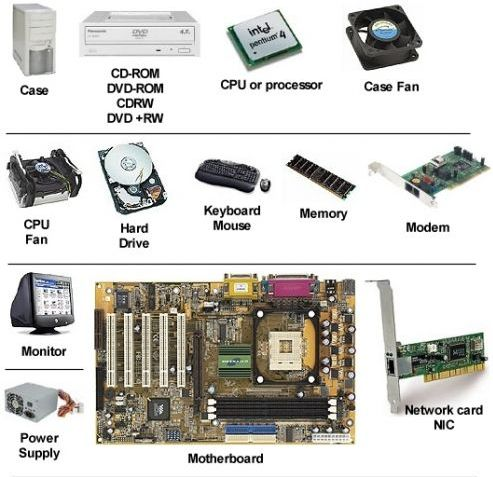
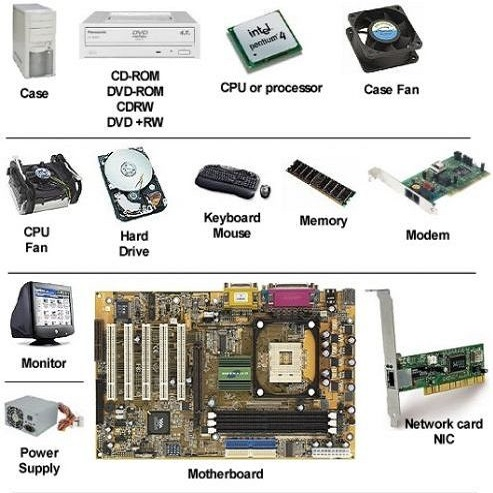
Ajustes no tamanho das imagens na lista de categoria

diff --git a/src/app/components/categorias/categorias-list/categorias-list.component.html b/src/app/components/categorias/categorias-list/categorias-list.component.html
@@ -3,7 +3,7 @@
     <ng-template let-item pTemplate="item">
       <div class="ui-grid ui-grid-responsive">
         <div class="ui-grid-row">
-                <div class="ui-grid-col-12"><img src="assets/img/cat{{item.codigo}}.jpg" width="100"></div>
+                <div class="ui-grid-col-12"><img src="assets/img/cat{{item.codigo}}.jpg" width="200"></div>
             
         </div>
         <div class="ui-grid-row">
